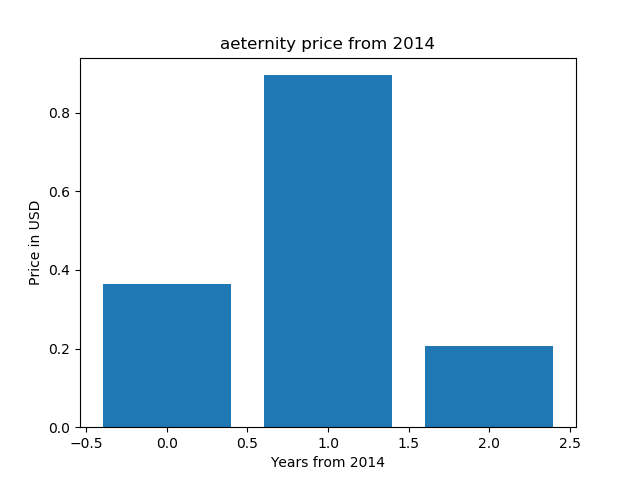
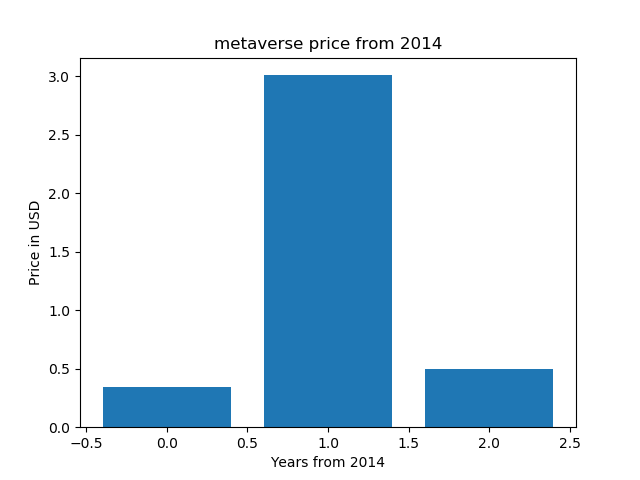
first commit

diff --git a/example.py b/example.py
@@ -10,7 +10,7 @@ from time import gmtime, strftime
 import matplotlib.pyplot as plt
 
 enddate = strftime("%Y%m%d", gmtime())
-r  = requests.get("https://coinmarketcap.com/currencies/aeternity/historical-data/?start=20140101&end={0}".format(enddate))
+r  = requests.get("https://coinmarketcap.com/currencies/metaverse/historical-data/?start=20140101&end={0}".format(enddate))
 data = r.text
 
 soup = BeautifulSoup(data, "html.parser")
@@ -44,7 +44,7 @@ print(x)
 
 x = list(range(0, len(prices)))
 
-plt.title('aeternity price from 2014')
+plt.title('metaverse price from 2014')
 plt.ylabel('Price in USD')
 plt.xlabel('Years from 2014')
 plt.bar(x, prices)

diff --git a/README.md b/README.md
@@ -1,6 +1,6 @@
-# aeternity price chart 
+# metaverse price chart 
 
-aeternity price chart (matplotlib, python)
+metaverse price chart (matplotlib, python)
 
 https://pythonprogramminglanguage.com
 
